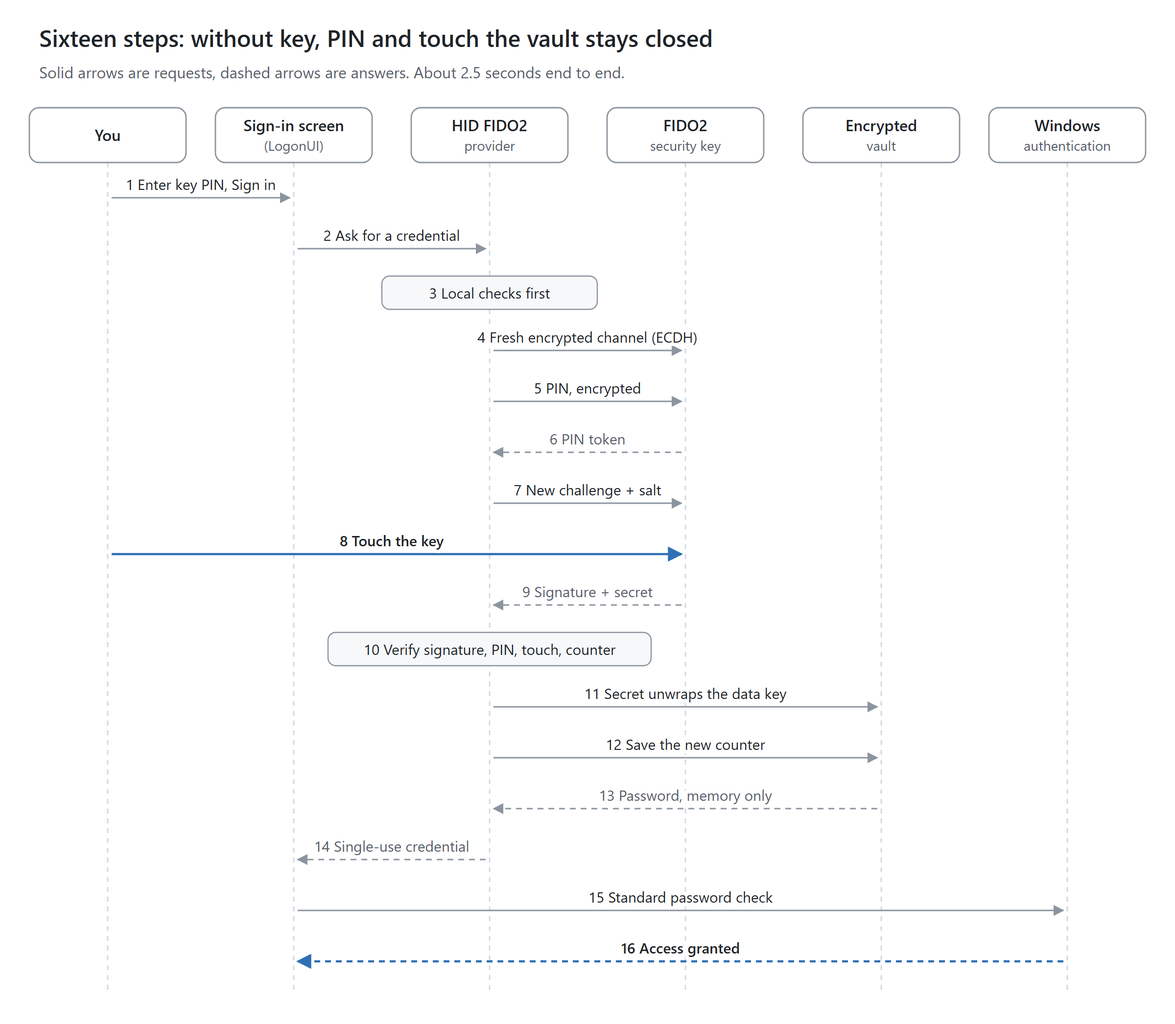
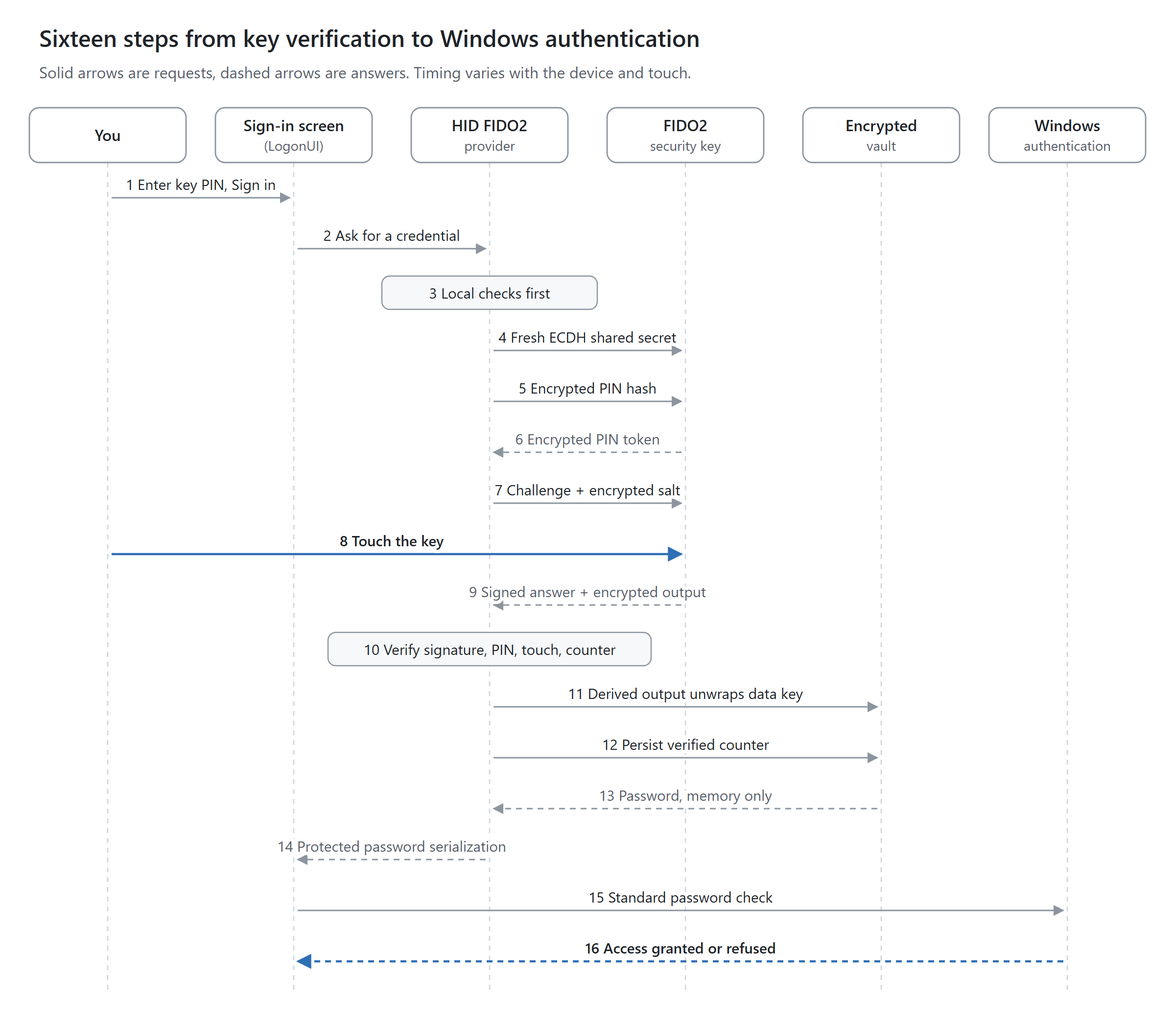
Clarify credential lifetime and FIDO2 protection boundaries

diff --git a/docs/medium-article/diagrams/build_diagrams.py b/docs/medium-article/diagrams/build_diagrams.py
@@ -85,7 +85,7 @@ def architecture():
     b.append(text(122, 240, 'manage', 14, 400, MUTED))
     b.append(text(122, 450, 'sign in', 14, 600, ACCENT))
     b.append(text(560, 158, 'runs', 14, 400, MUTED, 'middle'))
-    b.append(text(874, 604, 'protected password, single use', 14, 600, ACCENT))
+    b.append(text(874, 604, 'CredProtect-protected password', 14, 600, ACCENT))
     for i, line in enumerate(['Once, as administrator: enroll two', 'keys, store the password, install.']):
         b.append(text(240, 262 + 22 * i, line, 14.5, 400, MUTED))
     for i, line in enumerate(['Every sign-in: key PIN and a touch;', 'the Windows password is never typed.']):
@@ -105,8 +105,8 @@ def sequence():
     top, step, first = 110, 52, 196
     rows = 16
     bottom = first + step * (rows - 1) + 40
-    b = [text(40, 48, 'Sixteen steps: without key, PIN and touch the vault stays closed', 24, 600)]
-    b.append(text(40, 80, 'Solid arrows are requests, dashed arrows are answers. About 2.5 seconds end to end.', 16, 400, MUTED))
+    b = [text(40, 48, 'Sixteen steps from key verification to Windows authentication', 24, 600)]
+    b.append(text(40, 80, 'Solid arrows are requests, dashed arrows are answers. Timing varies with the device and touch.', 16, 400, MUTED))
     for x, (name, sub) in zip(xs, lanes):
         b.append(f'<line x1="{x}" y1="{top + 56}" x2="{x}" y2="{bottom}" stroke="{GRID}" stroke-width="1.4" stroke-dasharray="5 5"/>')
         b.append(f'<rect x="{x - 80}" y="{top}" width="160" height="56" rx="10" fill="#ffffff" stroke="{LINE}" stroke-width="1.4"/>')
@@ -121,19 +121,19 @@ def sequence():
         (You, Screen, '1  Enter key PIN, Sign in', False, False),
         (Screen, Prov, '2  Ask for a credential', False, False),
         (Prov, Prov, '3  Local checks first', False, False),
-        (Prov, Key, '4  Fresh encrypted channel (ECDH)', False, False),
-        (Prov, Key, '5  PIN, encrypted', False, False),
-        (Key, Prov, '6  PIN token', True, False),
-        (Prov, Key, '7  New challenge + salt', False, False),
+        (Prov, Key, '4  Fresh ECDH shared secret', False, False),
+        (Prov, Key, '5  Encrypted PIN hash', False, False),
+        (Key, Prov, '6  Encrypted PIN token', True, False),
+        (Prov, Key, '7  Challenge + encrypted salt', False, False),
         (You, Key, '8  Touch the key', False, True),
-        (Key, Prov, '9  Signature + secret', True, False),
+        (Key, Prov, '9  Signed answer + encrypted output', True, False),
         (Prov, Prov, '10  Verify signature, PIN, touch, counter', False, False),
-        (Prov, Vault, '11  Secret unwraps the data key', False, False),
-        (Prov, Vault, '12  Save the new counter', False, False),
+        (Prov, Vault, '11  Derived output unwraps data key', False, False),
+        (Prov, Vault, '12  Persist verified counter', False, False),
         (Vault, Prov, '13  Password, memory only', True, False),
-        (Prov, Screen, '14  Single-use credential', True, False),
+        (Prov, Screen, '14  Protected password serialization', True, False),
         (Screen, Win, '15  Standard password check', False, False),
-        (Win, Screen, '16  Access granted', True, True),
+        (Win, Screen, '16  Access granted or refused', True, True),
     ]
     for i, (a, c, label, answer, hot) in enumerate(steps):
         y = first + step * i
@@ -160,8 +160,8 @@ def vault():
     b.append(text(40, 80, 'One random data key encrypts the password; each security key wraps that same data key.', 16, 400, MUTED))
     b.append(f'<rect x="385" y="105" width="815" height="330" rx="14" fill="{BAND}" stroke="{LINE}" stroke-width="1.2" stroke-dasharray="7 6"/>')
     b.append(text(405, 134, 'Machine vault (vault.bin) - SYSTEM and Administrators only', 15, 600, MUTED))
-    b.append(box(40, 150, 260, 100, 'Primary security key', ['hmac-secret stays inside', 'gives a per-key secret']))
-    b.append(box(40, 300, 260, 100, 'Backup security key', ['hmac-secret stays inside', 'gives a per-key secret']))
+    b.append(box(40, 150, 260, 100, 'Primary security key', ['internal root stays inside', 'returns derived output']))
+    b.append(box(40, 300, 260, 100, 'Backup security key', ['internal root stays inside', 'returns derived output']))
     b.append(box(415, 160, 240, 80, 'Wrapped data key #1', ['HKDF + AES-256-GCM']))
     b.append(box(415, 310, 240, 80, 'Wrapped data key #2', ['HKDF + AES-256-GCM']))
     b.append(box(720, 230, 200, 90, 'Data key', ['256-bit, random'], accent=True))

diff --git a/docs/security-overview.md b/docs/security-overview.md
@@ -3,7 +3,7 @@
 HID FIDO2 Windows Logon lets you sign in to and unlock a local Windows account
 with a USB FIDO2 security key, its PIN and a touch, instead of typing the
 Windows password. This page explains the benefits, walks through what happens
-during an unlock and why each step is safe, and lists the limits that still
+during an unlock, what each check protects, and the limits that still
 apply. The [security model](../SECURITY.md) is the technical reference.
 
 > Experimental software: not certified or independently audited. Keep the
@@ -11,9 +11,10 @@ apply. The [security model](../SECURITY.md) is the technical reference.
 
 ## Benefits at a glance
 
-- **Two factors instead of one.** Signing in needs the physical key *and* its
-  PIN, confirmed by a touch. A stolen key without the PIN, or a PIN seen over
-  someone's shoulder without the key, is not enough.
+- **Key and PIN for this sign-in method.** The provider requires the physical
+  key, its PIN and a touch. This depends on the hardware assumptions below;
+  it does not require two factors for every Windows sign-in, because the
+  normal Windows password option remains available.
 - **No password typed at the sign-in screen.** The Windows password stays in
   an encrypted vault and is handed to Windows without being shown or typed.
 - **A spare key built in.** A primary and a backup key each open the same
@@ -31,9 +32,10 @@ apply. The [security model](../SECURITY.md) is the technical reference.
 
 ## What happens during an unlock
 
-From *Sign in* to an unlocked session takes about 2.5 seconds on the
-development device, most of it waiting for the touch. Solid arrows are
-requests, dashed arrows are answers.
+Reported development runs took about 2.5 seconds from *Sign in* to an
+unlocked session, including the wait for a touch. This is a device-specific
+observation, not a benchmark or a guarantee for version 0.6.0 on other devices.
+Solid arrows are requests, dashed arrows are answers.
 
 ```mermaid
 sequenceDiagram
@@ -47,60 +49,68 @@ sequenceDiagram
     U->>L: Enter the key PIN and select Sign in
     L->>P: Ask for a credential
     P->>P: Local checks before contacting the key
-    P->>K: Open the USB channel and agree a fresh encryption key (ECDH)
-    P->>K: Send the PIN, encrypted
-    K-->>P: Short-lived PIN token (the key verified the PIN)
+    P->>K: Open USB channel and agree a fresh shared secret (ECDH)
+    P->>K: Encrypted PIN hash
+    K-->>P: Encrypted PIN token (the key verified the PIN)
     P->>K: Fresh random challenge and encrypted salt
     U->>K: Touch the key when it blinks
-    K-->>P: Signed answer and encrypted key secret
+    K-->>P: Signed answer and encrypted derived output
     P->>P: Verify signature, challenge, PIN, touch and counter
-    P->>V: Key secret unwraps the vault data key
-    P->>V: Save the new signature counter
+    P->>V: Derived output unwraps the vault data key
+    P->>V: Save the verified counter before releasing the password
     V-->>P: Data key decrypts the Windows password, in memory only
-    P-->>L: Protected, single-use credential
+    P-->>L: CredProtect-protected password serialization
     L->>W: Standard Windows password check
     W-->>L: Access granted, or refused
 ```
 
-| Step | What happens | Why it is safe |
+| Step | What happens | Protection and limits |
 | --- | --- | --- |
-| 1-3 | You type the key PIN on the sign-in screen. The provider checks that the account is enrolled and active, that the PIN is well formed and that exactly one key is attached. | Problems are caught before the PIN reaches the key. The PIN is never displayed, logged or stored. |
-| 4 | The provider opens and verifies the USB channel, then agrees a new encryption key with the security key (ECDH P-256). | Anyone listening on the USB cable sees only data encrypted with throwaway keys, different at every sign-in. |
-| 5-6 | The PIN travels encrypted; the key checks it and returns a short-lived token. | The key counts wrong PINs and blocks itself after a few; the software never retries a PIN on its own. |
+| 1-3 | You type the key PIN on the sign-in screen. The provider checks that the account is enrolled and active, that the PIN is well formed and that exactly one key is attached. | These local checks happen before PIN verification. The field is masked; the PIN is held temporarily in process memory, not logged or persisted. |
+| 4 | The provider initializes the USB channel and agrees a fresh shared secret with the security key (ECDH P-256). | The PIN protocol protects selected sensitive fields. It does not encrypt all USB traffic or establish the device's identity through this key agreement. |
+| 5-6 | An encrypted truncated hash of the PIN is sent; the key checks it and returns an encrypted PIN token. | The key enforces its PIN retry limits; the software does not retry a rejected PIN automatically. |
 | 7 | The provider sends a fresh random challenge and, encrypted, the salt from which the key derives its secret. | An answer recorded earlier is useless for a new challenge. |
 | 8 | The key blinks and you touch it. | Proof of physical presence: no program can touch the key for you. |
-| 9 | The key signs its answer with a private key and computes the secret with `hmac-secret`. | The private key and the internal secret never leave the security key. |
+| 9 | The key signs its answer and computes a derived output with `hmac-secret`. | The private key and internal root secret remain on the device. The derived output is returned encrypted and decrypted by the provider in memory. |
 | 10 | The provider verifies the signature, the challenge, the relying-party binding, PIN verification (UV), touch (UP), the signature counter and the signed extension. | An incomplete, altered, replayed or foreign answer is rejected. |
-| 11 | The secret unwraps the vault's data key (HKDF and AES-256-GCM, bound to the account and to this key). | Without the physical key's secret the vault cannot be decrypted; the file alone is useless. |
-| 12 | The new signature counter is saved before anything else is released. | A cloned key with an older counter would be detected and refused. |
-| 13 | The data key decrypts the Windows password into protected memory; key material is wiped. | The password is never written to disk in clear text or shown. |
-| 14 | The password, protected for Windows with `CredProtectW`, is offered once and expires after 15 seconds. | A leftover credential cannot be reused later. |
-| 15-16 | Windows checks the password with its usual rules and unlocks the session. | Lockout, expiry and account restrictions apply as before. If Windows rejects the stored password, key sign-in is suspended and never retried automatically. |
+| 11 | The derived output unwraps the vault's data key (HKDF and AES-256-GCM, bound to the account and to this key). | A copied vault alone does not contain the key material needed to decrypt the password. Compromise of the trusted processes or key material is outside this protection. |
+| 12 | The verified signature counter is saved before the password is decrypted. | When either the stored or received counter is nonzero, the received value must increase. An all-zero pair is accepted and cannot provide counter-based clone detection. |
+| 13 | The data key decrypts the Windows password into a temporary buffer; sensitive buffers are cleared after use. | Memory locking is best effort. The application does not intentionally persist or display the plaintext password; a compromised privileged process can still capture it. |
+| 14 | The provider caches the `CredProtectW`-protected serialization for at most 15 seconds while it awaits submission, and consumes its cached copy once. | This limits retention and repeat submission by this provider. It is not an expiry enforced by `CredProtectW` or Windows authentication, and it does not make the Windows password a one-time password. |
+| 15-16 | Windows checks the password with its usual rules and grants or refuses access. | Lockout, expiry and account restrictions still apply. Password-related rejections suspend this provider's record to avoid repeating a stale password. An initial failed submission can still count toward lockout. |
 
 If the attached key is the backup key, steps 4-9 run first for the primary
 key's credential, which the backup key does not hold: the key says so before
 asking for a touch, and the provider moves on to the backup key's credential.
 
-## Why the design is secure
+## How the design protects sign-in
 
-1. **Possession, knowledge and presence are all required.** The vault opens
-   only with a secret that the physical key computes after verifying its PIN
-   and sensing a touch, and the provider checks the signed proof of all three.
-2. **Nothing can be replayed.** Each sign-in uses a new USB encryption key, a
-   new random challenge and a signature counter that must increase.
-3. **Secrets stay where they belong.** The key's private key and secret never
-   leave the device; the vault is encrypted and readable only by SYSTEM and
-   Administrators; the password exists only briefly in protected memory and is
-   handed to Windows protected.
+1. **This provider checks possession, verification and presence.** It accepts
+   a signed assertion from an enrolled key only with user verification (UV)
+   and user presence (UP). Enrollment separately tests whether a client
+   without PIN verification can obtain the same derived output. Existing
+   prototype records without that proof remain marked as unverified.
+2. **Fresh assertions resist recorded-answer replay.** Each attempt uses a
+   fresh random challenge and verifies the signature and relying-party
+   binding. Nonzero counters must increase; authenticators with all-zero
+   counters are also accepted. Counter checks cannot detect every clone.
+3. **Secrets have separate boundaries.** The key's private key and internal
+   root secret remain on the device. The derived output and decrypted data
+   key are temporarily available to the provider. The vault is encrypted and
+   readable only by SYSTEM and Administrators; the password is submitted to
+   Windows using `CredProtectW` protection. The password remains reusable.
 4. **Windows remains the authority.** The project never decides who signs in
    and never creates a Windows token; it only supplies the same password a
    user would type.
-5. **It fails safe.** Local problems stop before the key is contacted, PINs
-   are never retried automatically, and a password rejected by Windows
-   suspends key sign-in instead of risking an account lockout.
-6. **Installation is verified.** Packages are checked against fixed hashes and
-   a publisher pin before and after elevation, run from a protected copy, and
-   management must elevate as the same account that uses the keys.
+5. **Repeated failed attempts are limited.** Local preflight checks run before
+   PIN verification, rejected PINs are not retried automatically, and
+   password-related Windows rejections suspend the record. Windows account
+   lockout remains possible under its normal policy.
+6. **Packages are checked before installation.** Payload hashes are checked
+   before and after elevation, and operations use a protected copy. Signed
+   builds additionally enforce the configured publisher pin and manifest
+   signature. Unsigned prototype hashes do not establish a publisher's
+   identity. Management must elevate as the same account that uses the keys.
 
 ## Threats and how they are handled
 
@@ -109,12 +119,12 @@ asking for a touch, and the provider moves on to the backup key's credential.
 | Stolen security key | The PIN is still required; the key limits PIN attempts. |
 | Observed PIN | Useless without the physical key. |
 | Copied vault file | AES-256-GCM encrypted; the decryption key derives from a secret inside the security key. |
-| Recorded or forged key answers | Fresh challenge, signature check against the enrolled public key, increasing counter. |
+| Recorded or forged key answers | Fresh challenge, signature and relying-party checks. Nonzero counters must increase; all-zero counters are accepted and provide no counter-based clone detection. |
 | Secret obtained without the PIN | The provider requires signed PIN verification. Enrollment tests each key after reconnection: access without PIN must be denied or give a different secret, otherwise the key is rejected. |
-| USB eavesdropping | PIN and secret travel encrypted under a per-session ECDH key. |
+| USB eavesdropping | The PIN hash, PIN token, extension salt and derived output are encrypted using ECDH-derived key material. Other protocol fields remain visible; this is not encryption of the entire USB channel. |
 | Password changed elsewhere | Windows rejects the stored copy; key sign-in is suspended until the password is updated with an enrolled key. |
-| Lost or broken key | The backup key opens the same vault; the Windows password always works. |
-| Tampered installation | Hash and signature checks, protected immutable copies, no self-registration. |
+| Lost or broken key | A working enrolled backup key can open the vault. The Windows password option remains available, subject to the account's status and Windows policy. |
+| Tampered installation | Payload hash checks and protected copies; publisher pin and signature enforcement in signed builds. Unsigned hashes alone cannot establish the package's origin. |
 
 ## Limits and residual risks
 
@@ -122,8 +132,9 @@ asking for a touch, and the provider moves on to the backup key's credential.
   been performed yet.
 - **Password-backed by design.** The Windows password still exists, encrypted
   on disk and briefly in memory. Whoever already controls the device as
-  SYSTEM or Administrator, or through the kernel, can obtain it, as with any
-  sign-in method.
+  SYSTEM or Administrator, or through the kernel, can capture it during use.
+  This password exposure is a tradeoff of this design, not a claim about
+  every other Windows sign-in method.
 - **Hardware assumptions.** Protection of the key secret without a PIN depends
   on the key's firmware; it is tested at enrollment but not certified. The
   project does not verify the key's manufacturer or genuineness.
@@ -145,6 +156,9 @@ asking for a touch, and the provider moves on to the backup key's credential.
   including a diagnostic trace in which Windows returned `STATUS_SUCCESS`.
   Each release must be validated again on the target device; see
   [recovery](recovery.md) before enabling it.
+
+Protocol references: [FIDO CTAP `hmac-secret`](https://fidoalliance.org/specs/fido-v2.1-ps-20210615/fido-client-to-authenticator-protocol-v2.1-ps-20210615.html#sctn-hmac-secret-extension)
+and [Microsoft `CredProtectW`](https://learn.microsoft.com/en-us/windows/win32/api/wincred/nf-wincred-credprotectw).
 
 See also: [architecture](architecture.md) · [usage](usage.md) ·
 [recovery](recovery.md) · [signing](signing.md) · [security model](../SECURITY.md)

diff --git a/docs/medium-article/article.md b/docs/medium-article/article.md
@@ -6,7 +6,8 @@
 
 I wanted something that sounded simple. Plug in my FIDO2 security key, type
 its PIN, touch it, and my Windows laptop unlocks. No password typed at the
-sign-in screen, and nothing to steal by looking over my shoulder.
+sign-in screen. Seeing the key PIN over my shoulder would not be enough
+without also possessing the key, under the hardware assumptions below.
 
 Windows can already sign in with a security key, but only for accounts
 managed through Microsoft Entra ID. For a plain local account there is
@@ -37,9 +38,10 @@ browser, you have to speak **CTAPHID**: 64-byte USB reports, channels,
 keep-alive messages and sequence numbers. On top of that sits **CTAP 2**,
 whose messages are encoded in **canonical CBOR**, a binary format where even
 the order of map keys is fixed. To send a PIN safely, the PIN protocol has you
-agree a one-time encryption key with the device using **elliptic-curve
-Diffie-Hellman on P-256**, and then encrypt and authenticate everything with
-AES and HMAC-SHA-256. To get a secret out of the key, you use the
+agree a fresh shared secret with the device using **elliptic-curve
+Diffie-Hellman on P-256**, then protect specific sensitive fields with AES and
+HMAC-SHA-256. This does not encrypt the entire USB channel. To obtain a
+derived secret from the key, you use the
 **hmac-secret** extension, with its own encrypted salts and its own proof of
 authenticity. Then you verify an **ES256 signature** over the key's
 authenticator data.
@@ -58,12 +60,18 @@ in this life".
 ## How it works, in one picture
 
 The idea is simple even if the parts are not. Your Windows password is
-encrypted and stored in a machine vault. The key that decrypts it can only be
-rebuilt from a secret that the physical security key computes, and the
-security key only computes it after verifying its PIN and feeling a touch. A
-credential provider running inside the Windows sign-in screen does that
-dance, decrypts the password in memory and hands it to the normal Windows
-authentication. Windows still decides who gets in.
+encrypted and stored in a machine vault. A derived output from the security
+key unlocks the data key that decrypts it. The credential provider accepts
+that output only with a verified signed assertion confirming PIN verification
+and a touch. Enrollment separately tests that a client without PIN
+verification cannot get the same output; this still depends on the key's
+firmware and has not been independently certified. The provider decrypts the
+password in memory and hands it to normal Windows authentication. Windows
+still decides who gets in, and its normal password option remains available.
+
+The key's signing private key and internal root secret stay inside the
+device. The derived `hmac-secret` output is returned encrypted and becomes
+available in the provider's memory, where it is used to unwrap the data key.
 
 ![Architecture: a native manager and vault helper for setup; a credential provider inside LogonUI for sign-in; both use the security key and the encrypted vault; the provider hands a protected password to Windows authentication](images/architecture.png)
 *Two programs share one key and one vault. Neither of them grants access: Windows does.*
@@ -86,20 +94,29 @@ This is what happens between pressing **Sign in** and seeing the desktop.
 
 A few of those steps carry most of the security:
 
-- **Step 4:** every sign-in starts with a fresh encrypted channel to the key.
-  Someone sniffing the USB cable sees only throwaway ciphertext.
+- **Step 4:** each attempt uses a fresh ECDH shared secret. The PIN hash,
+  PIN token, extension salt and derived output travel encrypted; other USB
+  protocol fields remain visible. This key agreement alone does not verify
+  the device's identity.
 - **Steps 5 and 6:** the PIN is checked by the security key itself, which
   counts wrong attempts and locks itself after a few. My software never retries
   a PIN on its own.
 - **Step 8:** the touch. No program can touch the key for you.
 - **Step 10:** the answer is checked like a signed document: signature,
-  challenge, PIN-verified flag, touch flag and a counter that must always go
-  up. A recorded or cloned answer fails here.
+  challenge, relying-party binding, PIN-verified flag and touch flag. A
+  recorded answer fails for a fresh challenge. Nonzero counters must also
+  increase; all-zero counters are accepted, so counter checks cannot detect
+  every cloned key.
 - **Steps 11 to 13:** only now is the vault opened, and the password exists
   only in memory, for a few seconds.
+- **Step 14:** the provider caches the protected password serialization for
+  at most 15 seconds while waiting to submit it, and consumes that cache once.
+  This limits retention in the provider; it does not make the password a
+  one-time password or impose an expiry on Windows authentication.
 - **Steps 15 and 16:** Windows checks the password with all its usual rules.
-  If Windows ever rejects it, key sign-in is suspended rather than retried, so
-  it can never lock you out.
+  Password-related rejections suspend the provider's record rather than
+  repeating the same stale password. A failed submission can still count
+  toward Windows account lockout.
 
 I could explain all of this to you now. Before this project, I could not have
 explained a single step of it.
@@ -179,9 +196,10 @@ was invisible, and traced it to an old Windows rule: the show-window setting a
 process is started with is silently applied to the first window it opens. My
 launcher had hidden a console, and Windows had hidden my installer too.
 
-**When "we can't tell" must mean "no".** Enrollment checks that the key does
-not release its secret without a PIN. On my key that check was sometimes
-inconclusive. At first we accepted the only clean result we could get.
+**When "we can't tell" must mean "no".** Enrollment checks that a client
+without PIN verification cannot obtain the same derived output. On my key
+that check was sometimes inconclusive. At first we accepted the only clean
+result we could get.
 In a later version the rule became strict: an inconclusive result rejects
 the key. Writing that rule takes one line of code; deciding it is a security
 judgement, and that is the part that stayed with me.

diff --git a/docs/architecture.md b/docs/architecture.md
@@ -34,12 +34,16 @@ reconnection. A random data key encrypts the Windows password with
 AES-256-GCM. Each key protects that same data key through its own secret,
 salt, authenticated context and HKDF-derived envelope.
 
-At sign-in a fresh challenge, verified assertion and key secret unlock the
-data key. The provider commits verified counter state before releasing the
-password for Windows serialization. Its temporary result is protected,
-single use and time bounded. Windows authentication results determine whether
-the password generation is suspended. Sensitive memory is cleared on exit,
-cancellation and expiry.
+At sign-in a fresh challenge, verified assertion and derived `hmac-secret`
+output unlock the data key. The provider commits verified counter state
+before releasing the password for Windows serialization. When either the
+stored or received counter is nonzero, the received value must increase;
+an all-zero pair is accepted and offers no counter-based clone detection.
+The protected serialization is held in a pending cache that expires after
+15 seconds or is consumed once by this provider. This is a cache policy,
+not an expiry on the serialized Windows credential or a one-time password.
+Windows authentication results determine whether the password generation is
+suspended. Sensitive buffers are cleared on exit, cancellation and cache expiry.
 
 Password changes re-encrypt the password payload while retaining key
 wrappers, so enrolled keys continue to work. Concurrency checks prevent an

diff --git a/README.md b/README.md
@@ -126,7 +126,7 @@ Successful sign-in alone does not prove hardware protection against requests wit
 
 The Windows password provider remains available. Provider removal preserves vault data. Compatible backups preserve current revocations and counters and do not restore obsolete password generations. They are not complete disaster recovery.
 
-For a non-technical summary of the benefits, the unlock workflow and why it is secure, see the [benefits and security overview](docs/security-overview.md).
+For a non-technical summary of the benefits, the unlock workflow, protections and limits, see the [benefits and security overview](docs/security-overview.md).
 
 Read the [security model](SECURITY.md) and [recovery instructions](docs/recovery.md) before enabling the provider. Distribution requires a real certificate and a validated [signing procedure](docs/signing.md).
 

diff --git a/docs/medium-article/README.md b/docs/medium-article/README.md
@@ -20,6 +20,12 @@ The screenshots show the Italian interface. The manager captures come from
 [`docs/images`](../images/README.md); the PIN dialog is the one shown by
 `hid-fido2-vault.exe` during enrollment.
 
+The diagrams distinguish the internal key secret from its encrypted derived
+output. The protected password remains reusable: the provider consumes its
+pending cache once, with a 15-second cache lifetime. It does not issue a
+one-time Windows password. See the overview for counter and USB protection
+limits.
+
 ## Publishing
 
 1. In Medium, create a new story. Paste the `#` line as the title and the
